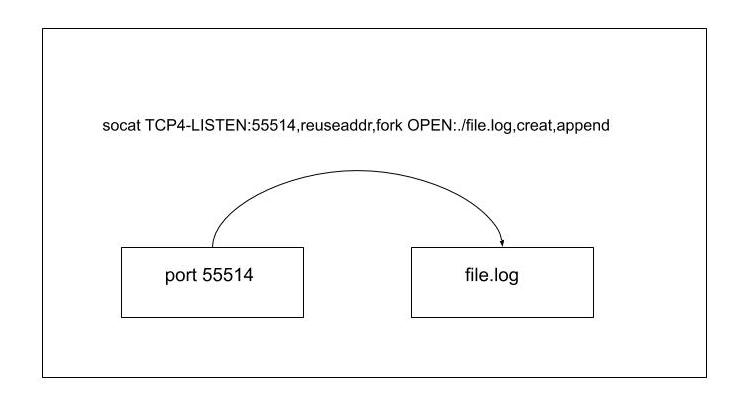
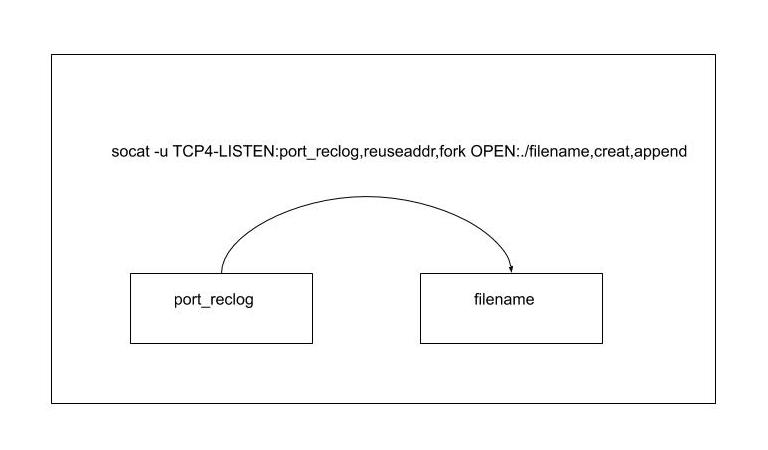
Mis à jour les figures avec le nouveau tunnel ssh reverse. J'ai aussi 'variabilisé' les ports afin de rendre la documentation plus générique et compréhensible

diff --git a/README.md b/README.md
@@ -1,7 +1,7 @@
 # reclog
 Système très simple d'enregistrement de logs via le réseau
 
-zf200830.1941
+zf200831.0918
 
 # ATTENTION, en cours de rédaction !
 
@@ -12,10 +12,11 @@ zf200830.1941
 * [Buts](#buts)
 * [Problématiques](#problématiques)
 * [Moyens](#moyens)
-  * [Deux versions sont possibles](#deux-versions-sont-possibles)
-* [Version simple](#version-simple)
-* [Version complexe avec un tremplin tunnel reverse ssh](#version-complexe-avec-un-tremplin-tunnel-reverse-ssh)
-* [Test de la connexion](#test-de-la-connexion)
+* [Deux versions sont possibles](#deux-versions-sont-possibles)
+  * [Version simple](#version-simple)
+    * [Test de la connexion](#test-de-la-connexion)
+  * [Version complexe avec un tremplin tunnel reverse ssh](#version-complexe-avec-un-tremplin-tunnel-reverse-ssh)
+  * [Test de la connexion](#test-de-la-connexion)
 <!-- /TOC -->
 
 
@@ -30,25 +31,38 @@ Comme le processus est *isolé*, embarqué dans un container *Docker* ou dans un
 
 
 # Moyens
-Pour faire très simple on va utiliser la commande *socat* de Linux pour *détourner* ce qui arrive sur un *port* dans un fichier.<br>
-Il suffit donc simplement, pour faire un *print console*, d'écrire dans un *port* du serveur pour sauvegarder dans un fichier les informations de debugs.
+Pour faire très simple on va utiliser la commande *socat* de Linux pour *détourner* ce qui arrive sur un *port* dans un *fichier*.<br>
+Il suffit donc simplement, pour faire un *print console*, d'écrire dans un *port* du serveur pour *écrire* dans un fichier les informations de *debug*.
 
 
-## Deux versions sont possibles
+# Deux versions sont possibles
 
-# Version simple
+## Version simple
 ![Image](https://github.com/zuzu59/reclog/blob/master/img/reclog%20figure%201.jpg?raw=true)
 
 Tout ce qui *arrive* sur un *port* est redirigé dans un fichier avec la commande *socat* (à faire tourner sur la machine *locale* ou *remote*). Simple et pratique quand on se trouve soit le même réseau ou alors que le fichier à observer se trouve sur un serveur sur Internet.
 ```
-socat -u TCP4-LISTEN:55514,reuseaddr,fork OPEN:./file.log,creat,append
+socat -u TCP4-LISTEN:port_reclog,reuseaddr,fork OPEN:./filename,creat,append
 ```
 On peut l'utiliser facilement avec ce petit script bash:
 ```
 reclog2file.sh port filename
 ```
 
-# Version complexe avec un tremplin tunnel reverse ssh
+### Test de la connexion
+On peut tester la connexion avec un simple **telnet** (à faire tourner dans une autre console où tourne le *socat*):
+```
+telnet localhost port_reclog
+```
+
+et en suite un **tail -f** (à faire tourner dans une autre console où tourne le *socat*):
+```
+tail -f filename
+```
+Tout ce qui est *écrit* dans la console *telnet* va se retrouver *enregistré* dans le fichier sur la machine
+
+
+## Version complexe avec un tremplin tunnel reverse ssh
 ![Image](https://github.com/zuzu59/reclog/blob/master/img/reclog%20figure%202.jpg?raw=true)
 
 * tout ce qui *arrive* sur un port, d'un serveur sur Internet, est redirigé sur un autre *port* de la même machine, afin de pouvoir y crocher un *tunnel ssh reverse* pour déporter l'enregistrement du fichier sur sa machine locale. Cela permet d'utiliser un serveur *reclog* sur Internet et d'avoir le fichier de log sur sa machine de son réseau local sans devoir ouvrir un port sur le NAT de son routeur.
@@ -66,7 +80,7 @@ ssh -t user@host_remote ssh -g -N -L port_reclog:localhost:port_remote localhost
 
 Enfin on redirige tout ce qui arrive sur le *port_local* de sa machine dans un fichier avec la commande *socat* (à faire tourner dans une autre console sur sa machine locale):
 ```
-socat -u TCP4-LISTEN:port_local,reuseaddr,fork OPEN:./file.log,creat,append
+socat -u TCP4-LISTEN:port_local,reuseaddr,fork OPEN:./filename,creat,append
 ```
 
 On peut le faire facilement avec ce petit script bash (à faire tourner sur sa machine *locale*):
@@ -79,16 +93,17 @@ Ce script va tout lancer les commandes sur la machine *remote* depuis sa machine
 reclog_remote_kill.sh
 ```
 
-# Test de la connexion
+
+## Test de la connexion
 On peut tester la connexion avec un simple **telnet** (à faire tourner dans une autre console sur sa machine locale):
 ```
-telnet machine_remote port_reclog
+telnet host_remote port_reclog
 ```
 
 et en suite un **tail -f** (à faire tourner dans une autre console sur sa machine locale):
 ```
-tail -f file.log
+tail -f filename
 ```
-
+Tout ce qui est *écrit* dans la console *telnet* va se retrouver *enregistré* dans le fichier sur sa machine
 
 

diff --git a/zf_commands.md b/zf_commands.md
@@ -1,5 +1,5 @@
 # Mes petits trucs à moi pour bien travailler ;-)
-#zf200830.1941
+#zf200831.0902
 
 <!-- TOC titleSize:2 tabSpaces:2 depthFrom:1 depthTo:6 withLinks:1 updateOnSave:1 orderedList:0 skip:2 title:1 charForUnorderedList:* -->
 ## Table of Contents
